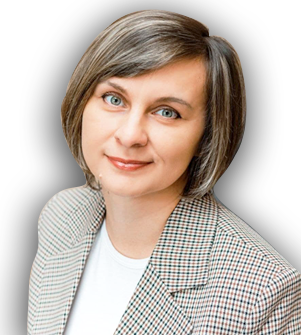
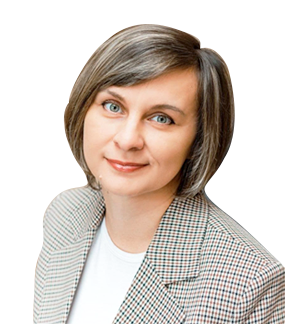
decrease head height

diff --git a/app/javascript/app.vue b/app/javascript/app.vue
@@ -52,21 +52,34 @@
       <v-main >
         <v-container class="main px-0 py-0">
         <div class="head d-flex">
-                    <div class="head1 d-none d-md-block"></div>
-                    <div class="head2 d-none d-md-block"></div>
-                    <div class="head3 d-flex justify-end align-end">
-                      <div class="frontclouds "></div>
-                    </div>
-                    <div class="titleb d-flex"> 
-                      <div class="ludmila d-none d-sm-block"></div><div class="nagovets d-none d-sm-block nagb"></div>
-                    </div>
-                    <div class="bgdf d-sm-none ml-14"></div>
-                    <div class="bgdf d-sm-none mt-7"></div>
-                    <div class="titles "> 
-                      <div class="ludmila d-sm-none"></div><div class="nagovets d-sm-none nags"></div>
-                    </div>
+          <div class="head1 d-none d-md-block"></div>
+          <div class="head2 d-none d-md-block"></div>
+          <div class="head3 d-flex justify-end align-end">
+            <div class="frontclouds "></div>
+          </div>
+          <div class="titleb d-flex"> 
+            <div class="ludmila d-none d-sm-block"></div><div class="nagovets d-none d-sm-block nagb"></div>
+          </div>
+          <div class="bgdf d-sm-none ml-14"></div>
+          <div class="bgdf d-sm-none mt-7"></div>
+          <div class="titles "> 
+            <div class="ludmila d-sm-none"></div><div class="nagovets d-sm-none nags"></div>
+          </div>
         </div>
         </v-container>
+       <!--  <v-container class="d-flex" >
+    
+            <v-spacer class="about">
+              <div class="foto">
+                
+              </div>
+            </v-spacer >
+            <div class="education">
+              456
+            </div>            
+       
+
+        </v-container> -->
       </v-main>  
     </v-app>    
   </div>
@@ -88,12 +101,30 @@ export default {
 </script>
 
 <style >
+.foto{
+  z-index: 1000;
+  position: relative;
+  margin-top: -85px;
+  float: right;
+  width: 282px;
+  height: 324px;
+  background-image: url('./images/foto.png');
+}
+.education{
+  width: 300px;
+  float: right;
+}
+.about{
+  height: 239px; 
+  background-image: url('./images/bg_books.jpg');
+  background-repeat: repeat-x;
+}
 .cursor{
   cursor: pointer;
 }
 .bgdf{
   left: 70px;
-  top: 118px;
+  top: 83px;
   position: absolute;
   height: 28px;
   width: 185px;
@@ -104,11 +135,11 @@ export default {
   position: absolute;
 }
 .titleb{
-  margin-top: 100px;
+  margin-top: 52px;
   margin-left: 20px;
 }
 .titles{
-  margin-top: 105px;
+  margin-top: 70px;
   margin-left: 10px;
 
 
@@ -133,7 +164,7 @@ export default {
 }
 .frontclouds{
   width: 100%;   
-  height: 137px;
+  height: 121px;
   background-image: url('./images/frontclouds.png');
   background-position: right;
 }
@@ -145,21 +176,21 @@ export default {
   position: relative;
   margin-top: -48px;
   /*background-color: #dad;*/
-  height: 263px;
+  height: 215px;
 }
 .head1{
-  height: 263px;
+  height: 215px;
   width: 201px;
   background-image: url('./images/head1.jpg');
 }
 .head2{
-  height: 263px;
+  height: 215px;
 }
 .head3{
   margin-left: auto;
   margin-right: 0px;
   float: right;
-  height: 263px;
+  height: 215px;
   width: 915px;
   background-image: url('./images/head3.jpg');
   background-position: right;
